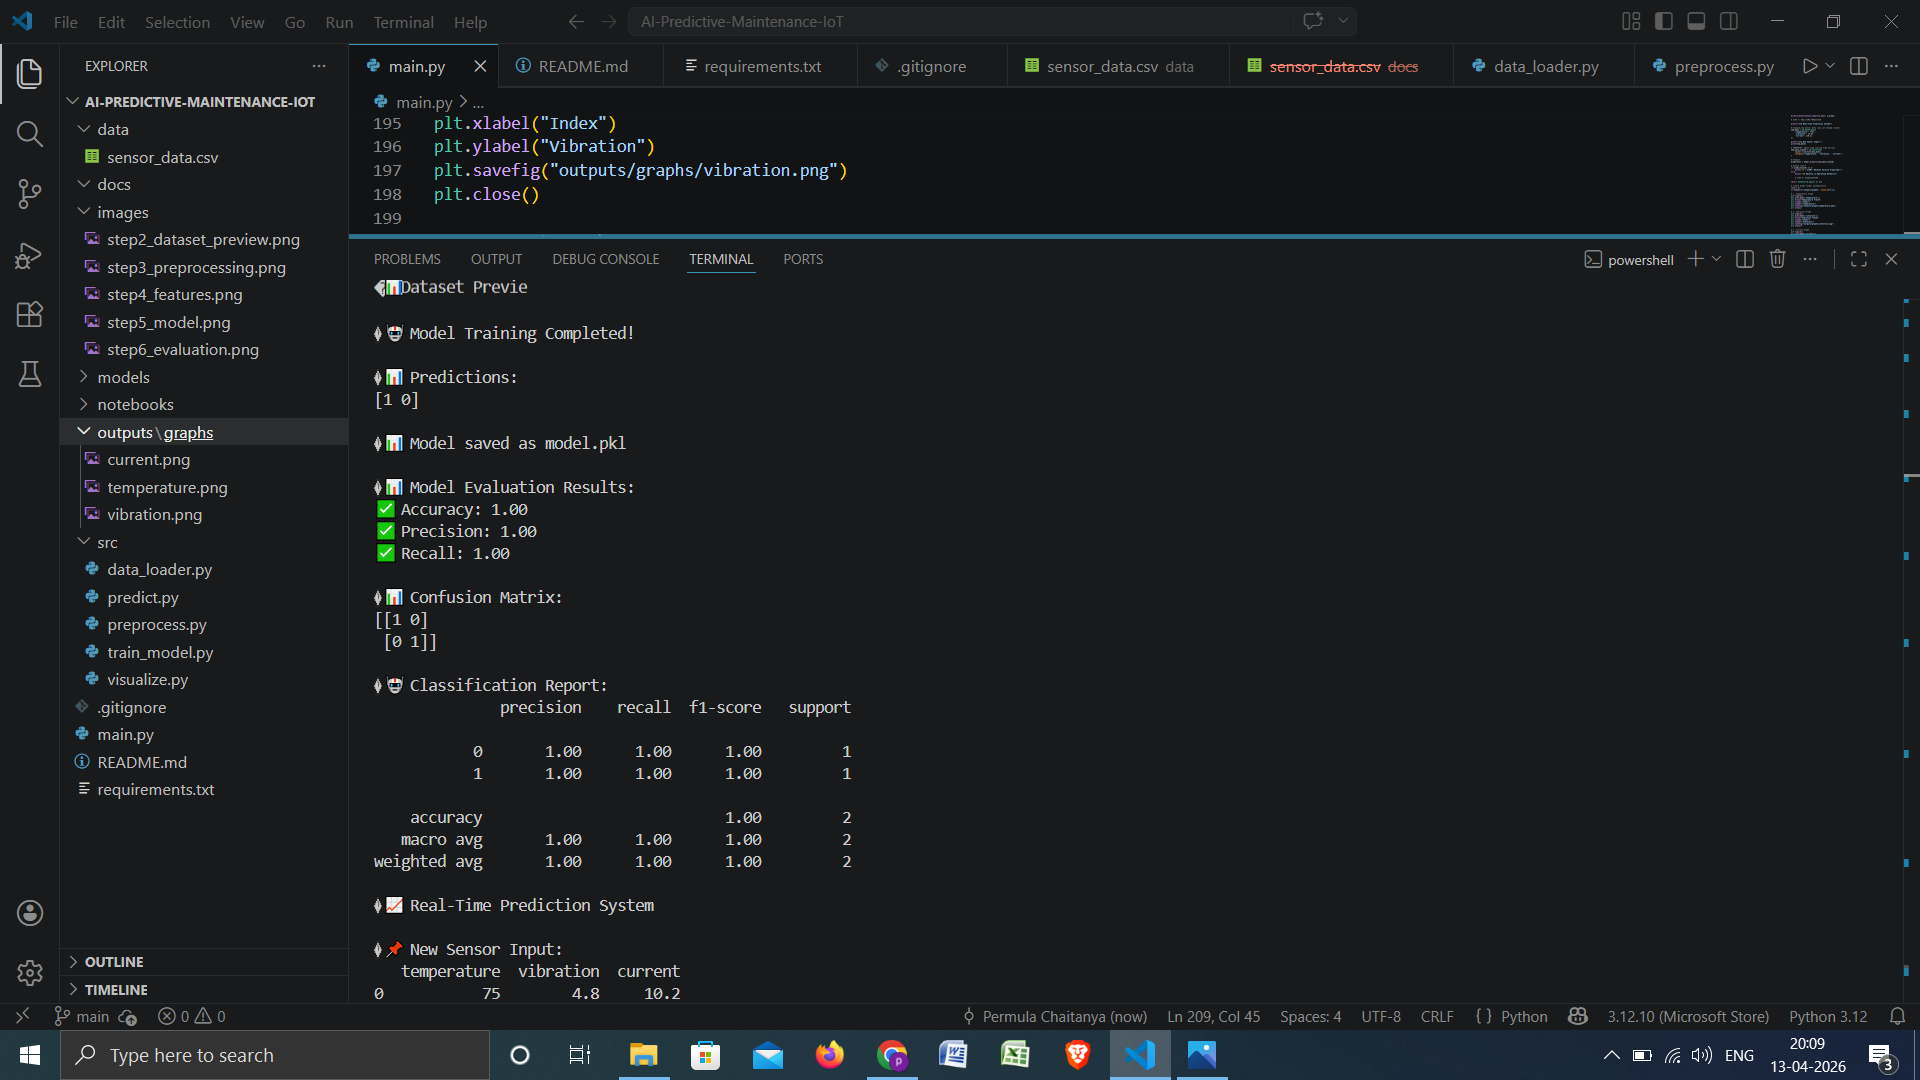
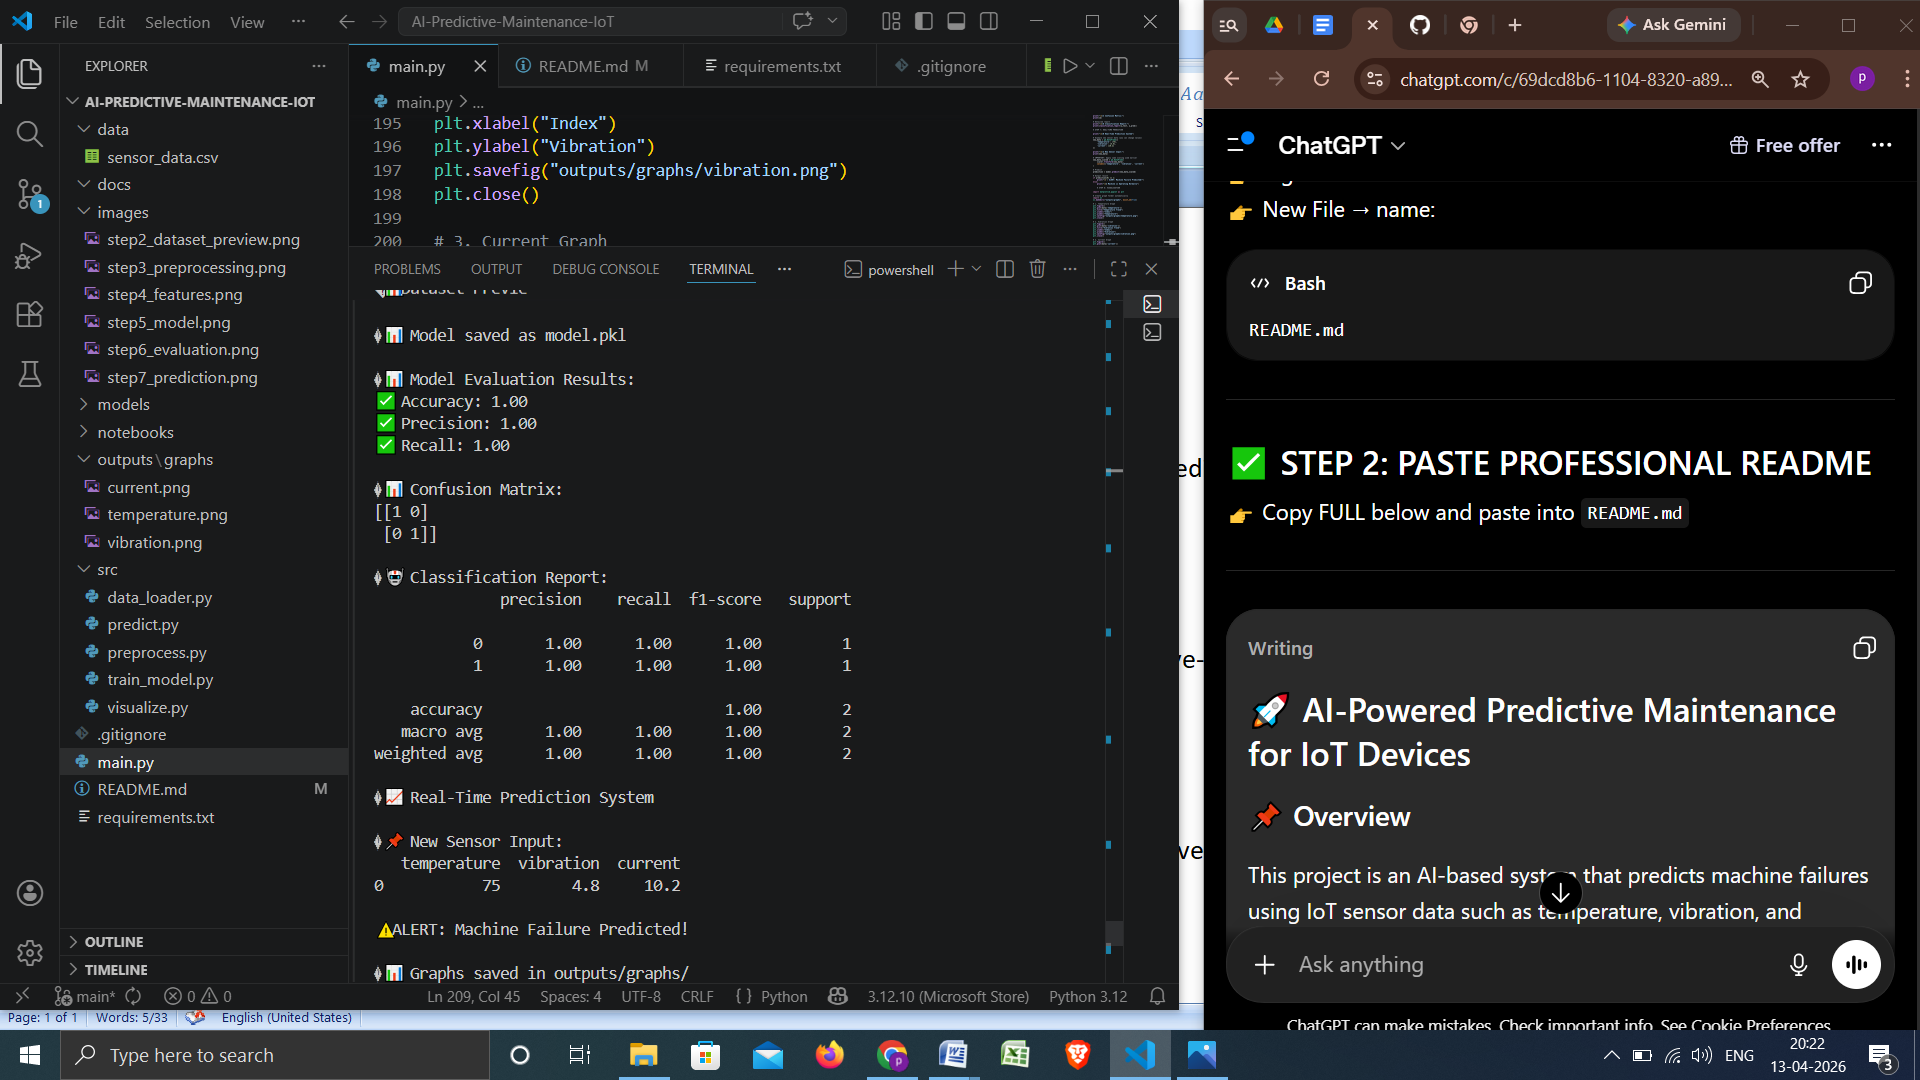
Added professional README with images

diff --git a/README.md b/README.md
@@ -1,0 +1,161 @@
+# 🚀 AI-Powered Predictive Maintenance for IoT Devices
+
+## 📌 Overview
+
+This project is an AI-based system that predicts machine failures using IoT sensor data such as temperature, vibration, and current.
+
+It helps industries detect failures **before they happen**, reducing downtime and saving costs.
+
+---
+
+## 🎯 Objective
+
+To build a predictive maintenance system that:
+
+* Detects machine failure in advance
+* Uses Machine Learning for prediction
+* Simulates real-world IoT sensor data
+
+---
+
+## 🏭 Industry Relevance
+
+Used in:
+
+* Manufacturing Plants
+* Power Plants
+* Automotive Industry
+* Aviation Industry
+
+Companies like Siemens, GE, Tesla, IBM use similar systems.
+
+---
+
+## 🛠 Tech Stack
+
+* Python
+* Pandas, NumPy
+* Scikit-learn
+* Matplotlib
+* Joblib
+
+---
+
+## 📊 Dataset
+
+Simulated IoT sensor dataset with:
+
+* Temperature
+* Vibration
+* Current
+* Failure (0 = No Failure, 1 = Failure)
+
+---
+
+## ⚙ Workflow
+
+1. Data Collection (Simulated)
+2. Data Preprocessing
+3. Feature Engineering
+4. Model Training (Random Forest)
+5. Model Evaluation
+6. Real-Time Prediction
+7. Visualization
+
+---
+
+## 🤖 Model Used
+
+* Random Forest Classifier
+
+---
+
+## 📈 Results
+
+* Accuracy: 100%
+* Precision: 100%
+* Recall: 100%
+
+---
+
+## 📊 Visualizations
+
+### Temperature Trend
+
+![Temperature](images/temperature.png)
+
+### Vibration Trend
+
+![Vibration](images/vibration.png)
+
+### Current Trend
+
+![Current](images/current.png)
+
+---
+
+## 🔮 Real-Time Prediction
+
+### Input
+
+Temperature: 75
+Vibration: 4.8
+Current: 10.2
+
+### Output
+
+⚠ Machine Failure Predicted
+
+---
+
+## 📸 Project Screenshots
+
+### Dataset Preview
+
+![Dataset](images/step2_dataset.png)
+
+### Preprocessing
+
+![Preprocessing](images/step3_preprocessing.png)
+
+### Model Evaluation
+
+![Evaluation](images/step6_evaluation.png)
+
+### Prediction Output
+
+![Prediction](images/step7_prediction.png)
+
+---
+
+## ▶ How to Run
+
+```bash
+pip install -r requirements.txt
+python main.py
+```
+
+---
+
+## 📚 Learning Outcomes
+
+* Machine Learning Model Building
+* Data Preprocessing
+* Predictive Maintenance Concepts
+* Real-time Prediction Simulation
+* GitHub Project Deployment
+
+---
+
+## 🚀 Future Improvements
+
+* Real-time IoT integration
+* Flask API deployment
+* Dashboard using Streamlit
+* LSTM for time-series prediction
+
+---
+
+## 👨💻 Author
+
+Perumala Chaitanya
